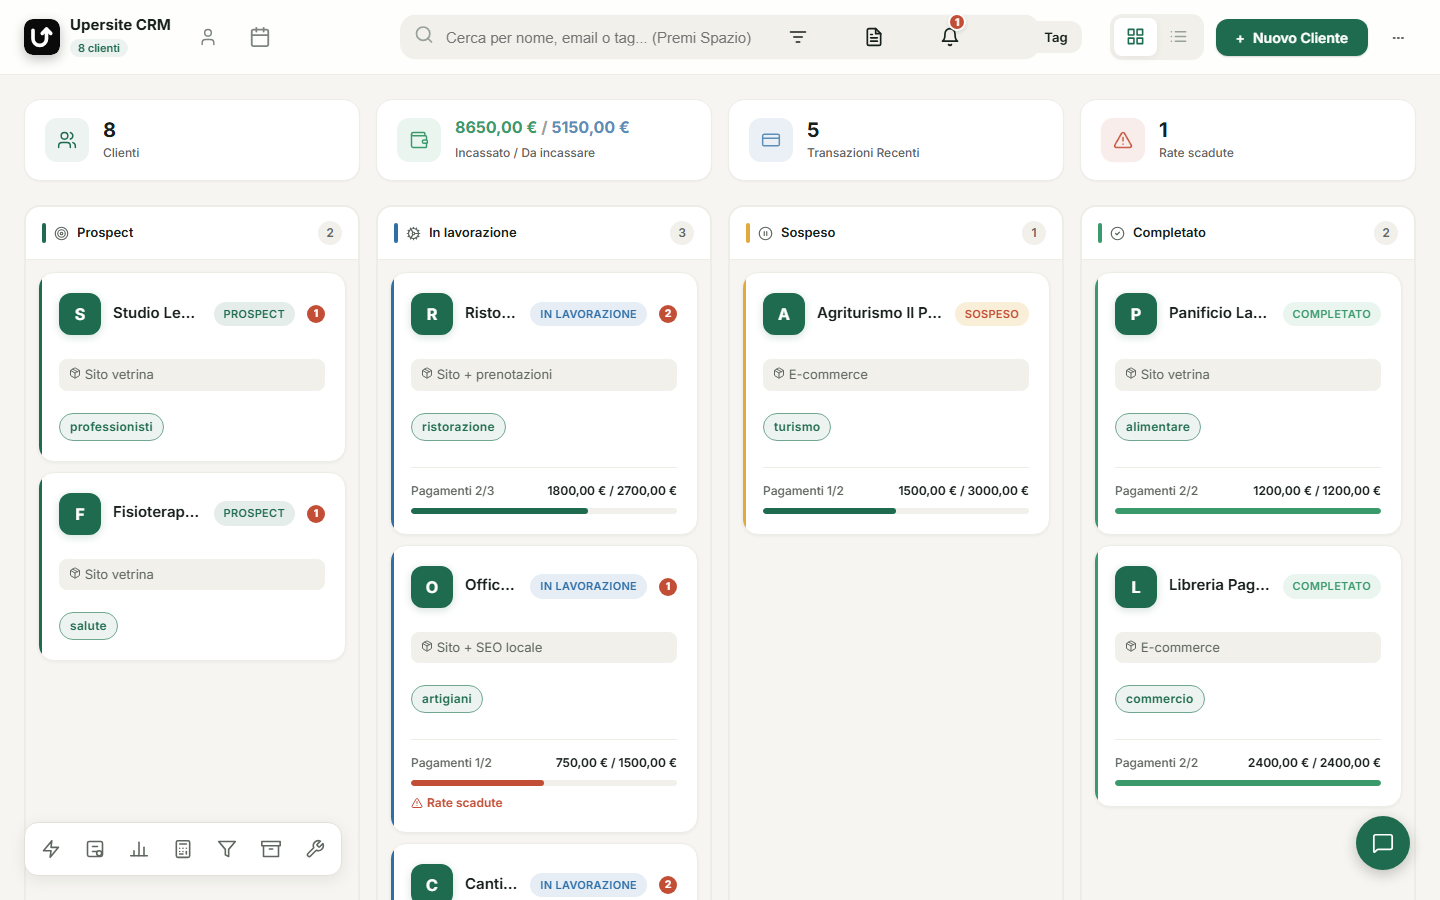
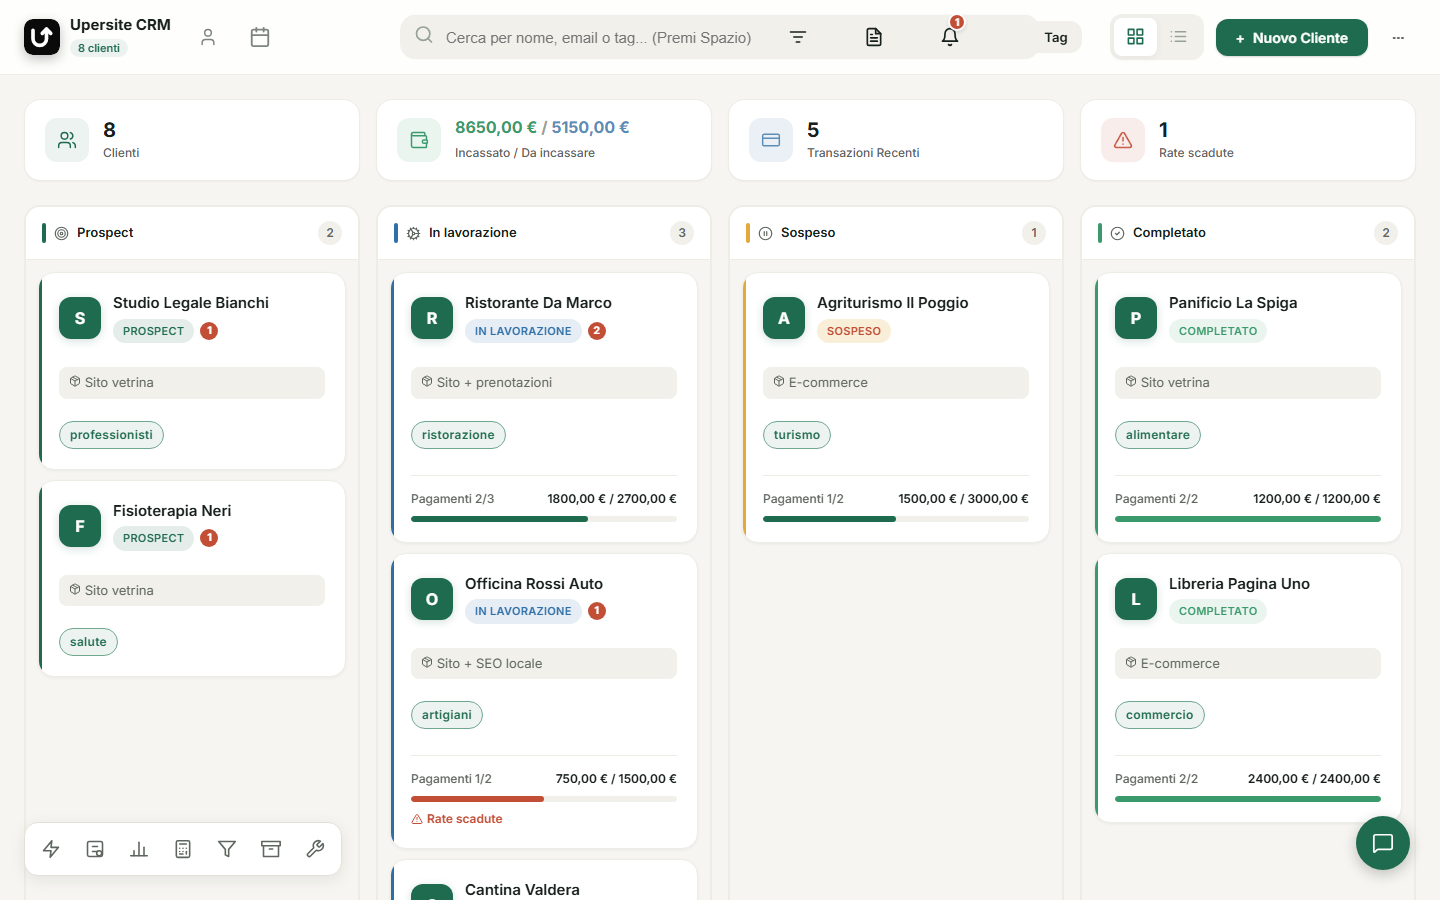
Versione 2.0.1: login in HTTP e nomi completi nella Kanban
- Crea password / vault: da HTTP (es. http://umbrel.local, IP di casa) crypto.subtle
  non esiste e la schermata restava ferma senza errori. Ora PBKDF2-SHA256 e
  AES-256-GCM hanno un'alternativa in JavaScript puro (@noble/hashes e
  @noble/ciphers) con risultati identici byte per byte al metodo nativo, usata solo
  quando il nativo manca. Un errore nella creazione della password ora si vede.
- Kanban: il nome del cliente va a capo (max 2 righe) e lo stato sta sotto il nome.
- README: schermate aggiornate.

diff --git a/Upersite CRM - software/src/components/CustomerCard.jsx b/Upersite CRM - software/src/components/CustomerCard.jsx
@@ -55,27 +55,29 @@ export default function CustomerCard({ customer, onClick, index = 0 }) {
           )}
         </div>
         <div className="customer-card-info">
-          <h3 className="customer-card-name">{customer.name || 'Senza nome'}</h3>
+          <h3 className="customer-card-name" title={customer.name || 'Senza nome'}>{customer.name || 'Senza nome'}</h3>
           {customer.company && (
             <span className="customer-card-company">{customer.company}</span>
           )}
+          <div className="customer-card-meta">
+            <span className={`badge badge-${status}`}>{STATUS_LABELS[status]}</span>
+            {totalUnread > 0 && (
+              <span style={{
+                background: 'var(--danger)',
+                color: '#fff',
+                fontSize: '0.65rem',
+                fontWeight: 700,
+                minWidth: '18px',
+                height: '18px',
+                borderRadius: '9px',
+                display: 'flex',
+                alignItems: 'center',
+                justifyContent: 'center',
+                padding: '0 5px',
+              }}>{totalUnread}</span>
+            )}
+          </div>
         </div>
-        <span className={`badge badge-${status}`}>{STATUS_LABELS[status]}</span>
-        {totalUnread > 0 && (
-          <span style={{
-            background: 'var(--danger)',
-            color: '#fff',
-            fontSize: '0.65rem',
-            fontWeight: 700,
-            minWidth: '18px',
-            height: '18px',
-            borderRadius: '9px',
-            display: 'flex',
-            alignItems: 'center',
-            justifyContent: 'center',
-            padding: '0 5px',
-          }}>{totalUnread}</span>
-        )}
       </div>
 
       {customer.packageType && (
@@ -189,10 +191,21 @@ export default function CustomerCard({ customer, onClick, index = 0 }) {
         .customer-card-name {
           font-size: 0.9375rem;
           font-weight: 600;
+          line-height: 1.3;
           color: var(--text-primary);
-          white-space: nowrap;
+          /* Il nome va a capo (fino a 2 righe) invece di troncarsi dopo poche lettere */
+          display: -webkit-box;
+          -webkit-line-clamp: 2;
+          -webkit-box-orient: vertical;
           overflow: hidden;
-          text-overflow: ellipsis;
+          overflow-wrap: anywhere;
+        }
+        .customer-card-meta {
+          display: flex;
+          align-items: center;
+          flex-wrap: wrap;
+          gap: 6px;
+          margin-top: 6px;
         }
 
         .customer-card-company {

diff --git a/Upersite CRM - software/src/utils/credentialVault.js b/Upersite CRM - software/src/utils/credentialVault.js
@@ -3,6 +3,8 @@
 // le credenziali salvate in crm_data.json (e nei backup) non sono leggibili.
 // Formato salvato nel campo `password`: enc:v1:<salt>:<iv>:<testo cifrato>  (base64)
 
+import { pbkdf2Sha256, aesGcmEncrypt, aesGcmDecrypt } from './cryptoCompat.js';
+
 const PREFIX = 'enc:v1:';
 const PBKDF2_ITERATIONS = 210000;
 
@@ -21,16 +23,8 @@ function base64ToBytes(b64) {
 function deriveKey(password, salt) {
     const cacheKey = `${bytesToBase64(salt)}|${password}`;
     if (!keyCache.has(cacheKey)) {
-        keyCache.set(cacheKey, (async () => {
-            const material = await crypto.subtle.importKey('raw', new TextEncoder().encode(password), 'PBKDF2', false, ['deriveKey']);
-            return crypto.subtle.deriveKey(
-                { name: 'PBKDF2', hash: 'SHA-256', salt, iterations: PBKDF2_ITERATIONS },
-                material,
-                { name: 'AES-GCM', length: 256 },
-                false,
-                ['encrypt', 'decrypt']
-            );
-        })());
+        // La chiave AES-256 sono i 32 byte di PBKDF2 (funziona anche senza crypto.subtle, vedi cryptoCompat.js)
+        keyCache.set(cacheKey, pbkdf2Sha256(password, salt, PBKDF2_ITERATIONS, 32));
     }
     return keyCache.get(cacheKey);
 }
@@ -44,7 +38,7 @@ export async function encryptSecret(plain, password) {
     if (!sessionSalt) sessionSalt = crypto.getRandomValues(new Uint8Array(16));
     const iv = crypto.getRandomValues(new Uint8Array(12));
     const key = await deriveKey(password, sessionSalt);
-    const cipher = new Uint8Array(await crypto.subtle.encrypt({ name: 'AES-GCM', iv }, key, new TextEncoder().encode(plain)));
+    const cipher = await aesGcmEncrypt(key, iv, new TextEncoder().encode(plain));
     return `${PREFIX}${bytesToBase64(sessionSalt)}:${bytesToBase64(iv)}:${bytesToBase64(cipher)}`;
 }
 
@@ -54,7 +48,7 @@ export async function decryptSecret(value, password) {
     if (!isEncrypted(value)) return value || '';
     const [saltB64, ivB64, cipherB64] = value.slice(PREFIX.length).split(':');
     const key = await deriveKey(password, base64ToBytes(saltB64));
-    const plain = await crypto.subtle.decrypt({ name: 'AES-GCM', iv: base64ToBytes(ivB64) }, key, base64ToBytes(cipherB64));
+    const plain = await aesGcmDecrypt(key, base64ToBytes(ivB64), base64ToBytes(cipherB64));
     return new TextDecoder().decode(plain);
 }
 

diff --git a/Upersite CRM - software/src/utils/cryptoCompat.js b/Upersite CRM - software/src/utils/cryptoCompat.js
@@ -1,0 +1,41 @@
+// Cifratura nel browser: PBKDF2-SHA256 e AES-256-GCM.
+//
+// Il browser mette `crypto.subtle` a disposizione solo in un "contesto sicuro" (HTTPS o localhost).
+// Aprendo il CRM da un indirizzo in HTTP (per esempio http://umbrel.local:8481 o l'IP del server in casa)
+// `crypto.subtle` non esiste: senza un'alternativa non si potrebbe nemmeno creare la password.
+// Quando manca, si usano le stesse funzioni in JavaScript puro (@noble). Il risultato è identico byte per byte,
+// quindi password e dati restano compatibili tra i due modi. Il modo nativo è molto più veloce.
+import { pbkdf2Async } from '@noble/hashes/pbkdf2.js';
+import { sha256 } from '@noble/hashes/sha2.js';
+import { gcm } from '@noble/ciphers/aes.js';
+
+const hasSubtle = () => typeof crypto !== 'undefined' && !!crypto.subtle;
+
+const encoder = new TextEncoder();
+
+// PBKDF2-SHA256: restituisce `length` byte
+export async function pbkdf2Sha256(password, salt, iterations, length = 32) {
+    if (hasSubtle()) {
+        const material = await crypto.subtle.importKey('raw', encoder.encode(password), 'PBKDF2', false, ['deriveBits']);
+        const bits = await crypto.subtle.deriveBits({ name: 'PBKDF2', hash: 'SHA-256', salt, iterations }, material, length * 8);
+        return new Uint8Array(bits);
+    }
+    return pbkdf2Async(sha256, encoder.encode(password), salt, { c: iterations, dkLen: length, asyncTick: 10 });
+}
+
+// AES-256-GCM: `key` è la chiave in byte; il risultato (e l'ingresso di decrypt) è testo cifrato + tag da 16 byte
+export async function aesGcmEncrypt(key, iv, plain) {
+    if (hasSubtle()) {
+        const cryptoKey = await crypto.subtle.importKey('raw', key, { name: 'AES-GCM' }, false, ['encrypt']);
+        return new Uint8Array(await crypto.subtle.encrypt({ name: 'AES-GCM', iv }, cryptoKey, plain));
+    }
+    return gcm(key, iv).encrypt(plain);
+}
+
+export async function aesGcmDecrypt(key, iv, cipher) {
+    if (hasSubtle()) {
+        const cryptoKey = await crypto.subtle.importKey('raw', key, { name: 'AES-GCM' }, false, ['decrypt']);
+        return new Uint8Array(await crypto.subtle.decrypt({ name: 'AES-GCM', iv }, cryptoKey, cipher));
+    }
+    return gcm(key, iv).decrypt(cipher);
+}

diff --git a/Upersite CRM - software/src/utils/storage.js b/Upersite CRM - software/src/utils/storage.js
@@ -2,6 +2,8 @@
 
 
 
+import { pbkdf2Sha256 } from './cryptoCompat.js';
+
 const STORAGE_KEY = 'upersite_crm_data';
 
 const MASTER_KEY = 'upersite_crm_master';
@@ -336,13 +338,10 @@ function base64ToBytes(b64) {
 
 }
 
-async function derivePasswordHash(password, salt, iterations) {
+function derivePasswordHash(password, salt, iterations) {
 
-    const keyMaterial = await crypto.subtle.importKey('raw', new TextEncoder().encode(password), 'PBKDF2', false, ['deriveBits']);
-
-    const bits = await crypto.subtle.deriveBits({ name: 'PBKDF2', hash: 'SHA-256', salt, iterations }, keyMaterial, 256);
-
-    return new Uint8Array(bits);
+    // Funziona anche senza crypto.subtle (pagina in HTTP): vedi cryptoCompat.js
+    return pbkdf2Sha256(password, salt, iterations, 32);
 
 }
 

diff --git a/Upersite CRM - software/src/components/Login.jsx b/Upersite CRM - software/src/components/Login.jsx
@@ -37,6 +37,11 @@ const LoginCard = memo(({
                     setError(result.error || 'Accesso non riuscito');
                     triggerShake();
                 }
+            } catch (err) {
+                // Un errore imprevisto non deve lasciare la schermata ferma e senza spiegazioni
+                console.error('Creazione password non riuscita:', err);
+                setError(`Impossibile creare la password: ${err?.message || 'errore imprevisto'}`);
+                triggerShake();
             } finally {
                 setBusy(false);
             }

diff --git a/Upersite CRM - software/src/utils/version.js b/Upersite CRM - software/src/utils/version.js
@@ -1,6 +1,6 @@
 // Utilità per il versioning dell'applicazione
 
-export const APP_VERSION = '2.0.0-stable';
+export const APP_VERSION = '2.0.1-stable';
 
 export const VERSION_TYPES = {
   MAJOR: 'major',

diff --git a/README.md b/README.md
@@ -9,7 +9,7 @@
   Si installa con Docker sul tuo server e si usa dal browser. I dati restano tuoi, cifrati sul tuo disco.
 </p>
 
-**Versione:** 2.0.0-stable · [Cronologia](Versioning.txt) · [Guida all'uso](Upersite%20CRM%20-%20software/Guida_UpersiteCRM.md)
+**Versione:** 2.0.1-stable · [Cronologia](Versioning.txt) · [Guida all'uso](Upersite%20CRM%20-%20software/Guida_UpersiteCRM.md)
 
 <p align="center">
   <img src="docs/screenshots/dashboard.png" alt="Pipeline dei clienti in vista Kanban, con statistiche e rate scadute" width="900">
@@ -171,8 +171,8 @@ Formato `Major.Minor.Patch-stato` (`alpha`, `beta`, `stable`). Quando cambi vers
 Per pubblicare l'immagine Docker:
 
 ```bash
-git tag v2.0.0-stable
-git push origin v2.0.0-stable
+git tag v2.0.1-stable
+git push origin v2.0.1-stable
 ```
 
-Il workflow `.github/workflows/docker-image.yml` costruisce l'immagine per amd64 e arm64 e la pubblica su `ghcr.io/tombino104/upersite-crm` con i tag `v2.0.0-stable`, `2.0.0-stable` e `latest`. Dopo la prima pubblicazione controlla su GitHub (Packages) che il pacchetto sia pubblico.
+Il workflow `.github/workflows/docker-image.yml` costruisce l'immagine per amd64 e arm64 e la pubblica su `ghcr.io/tombino104/upersite-crm` con i tag `v2.0.1-stable`, `2.0.1-stable` e `latest`. Dopo la prima pubblicazione controlla su GitHub (Packages) che il pacchetto sia pubblico.
